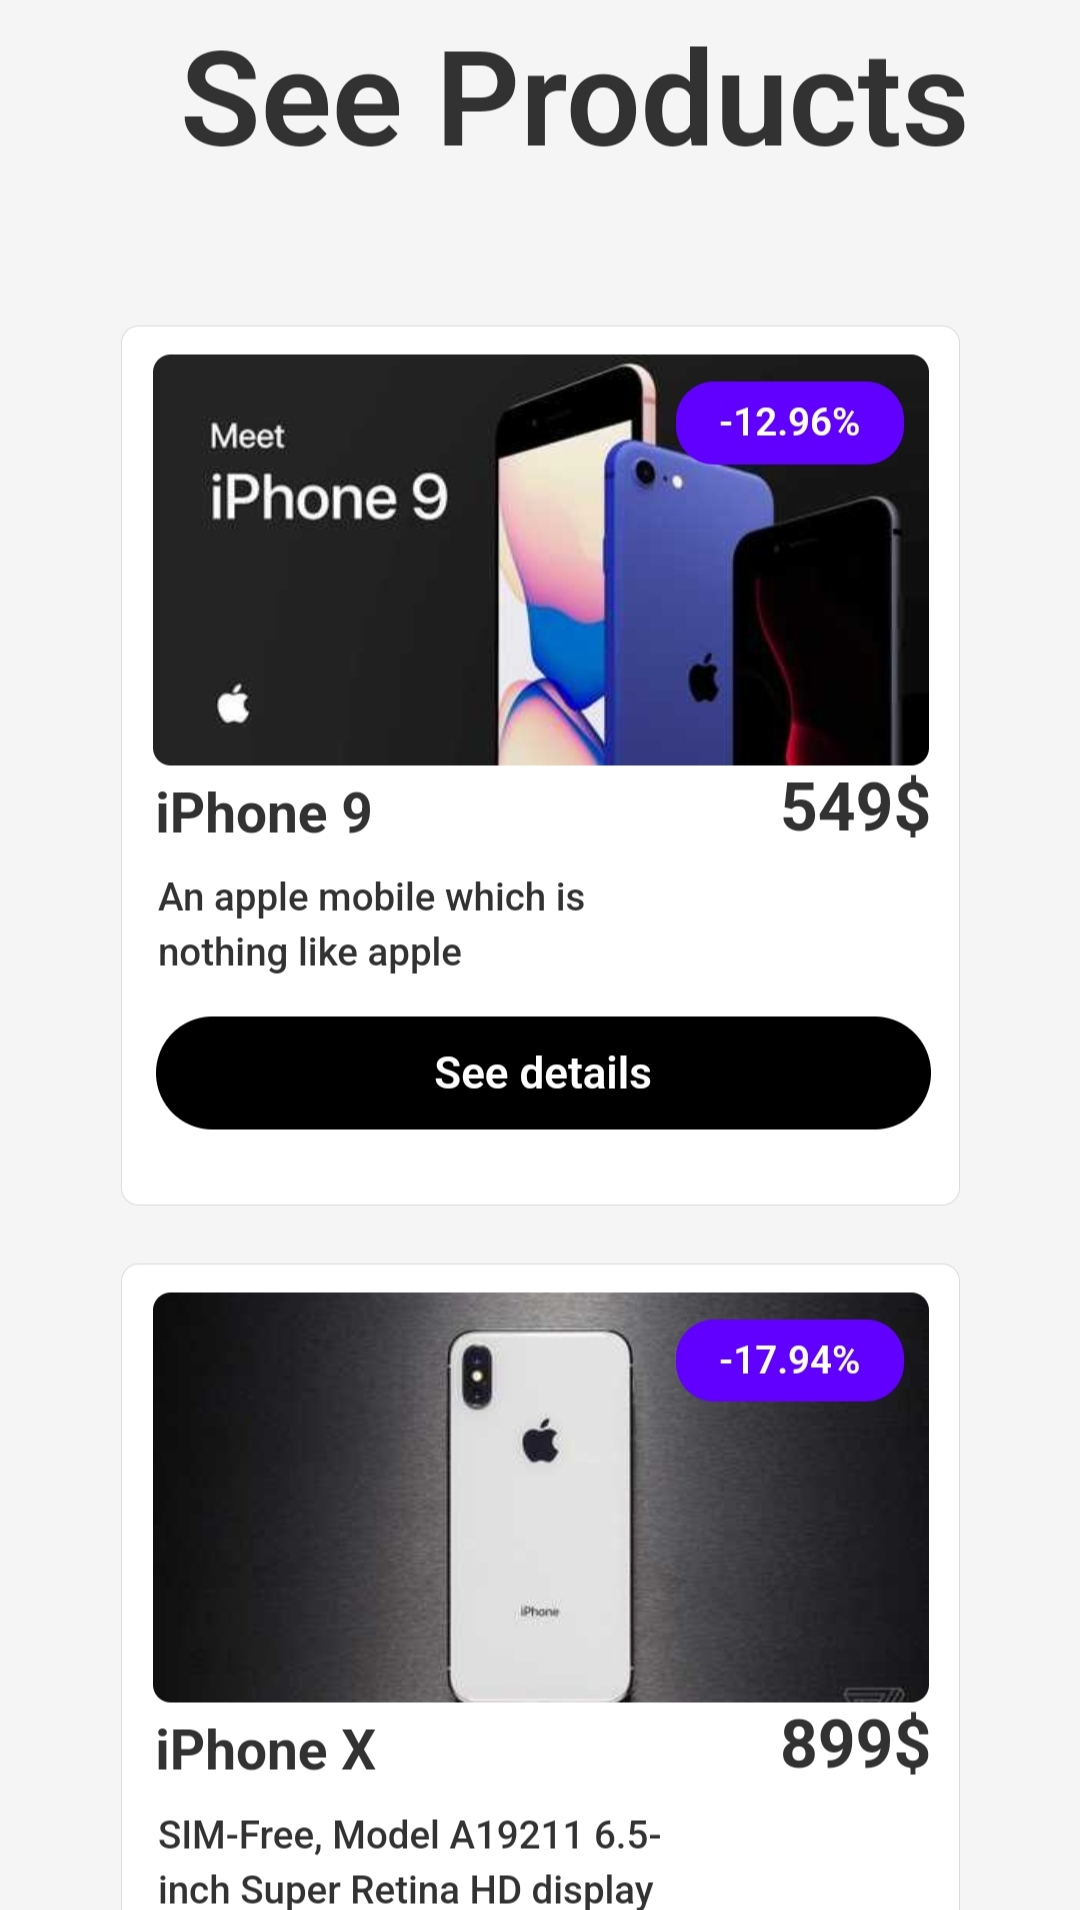
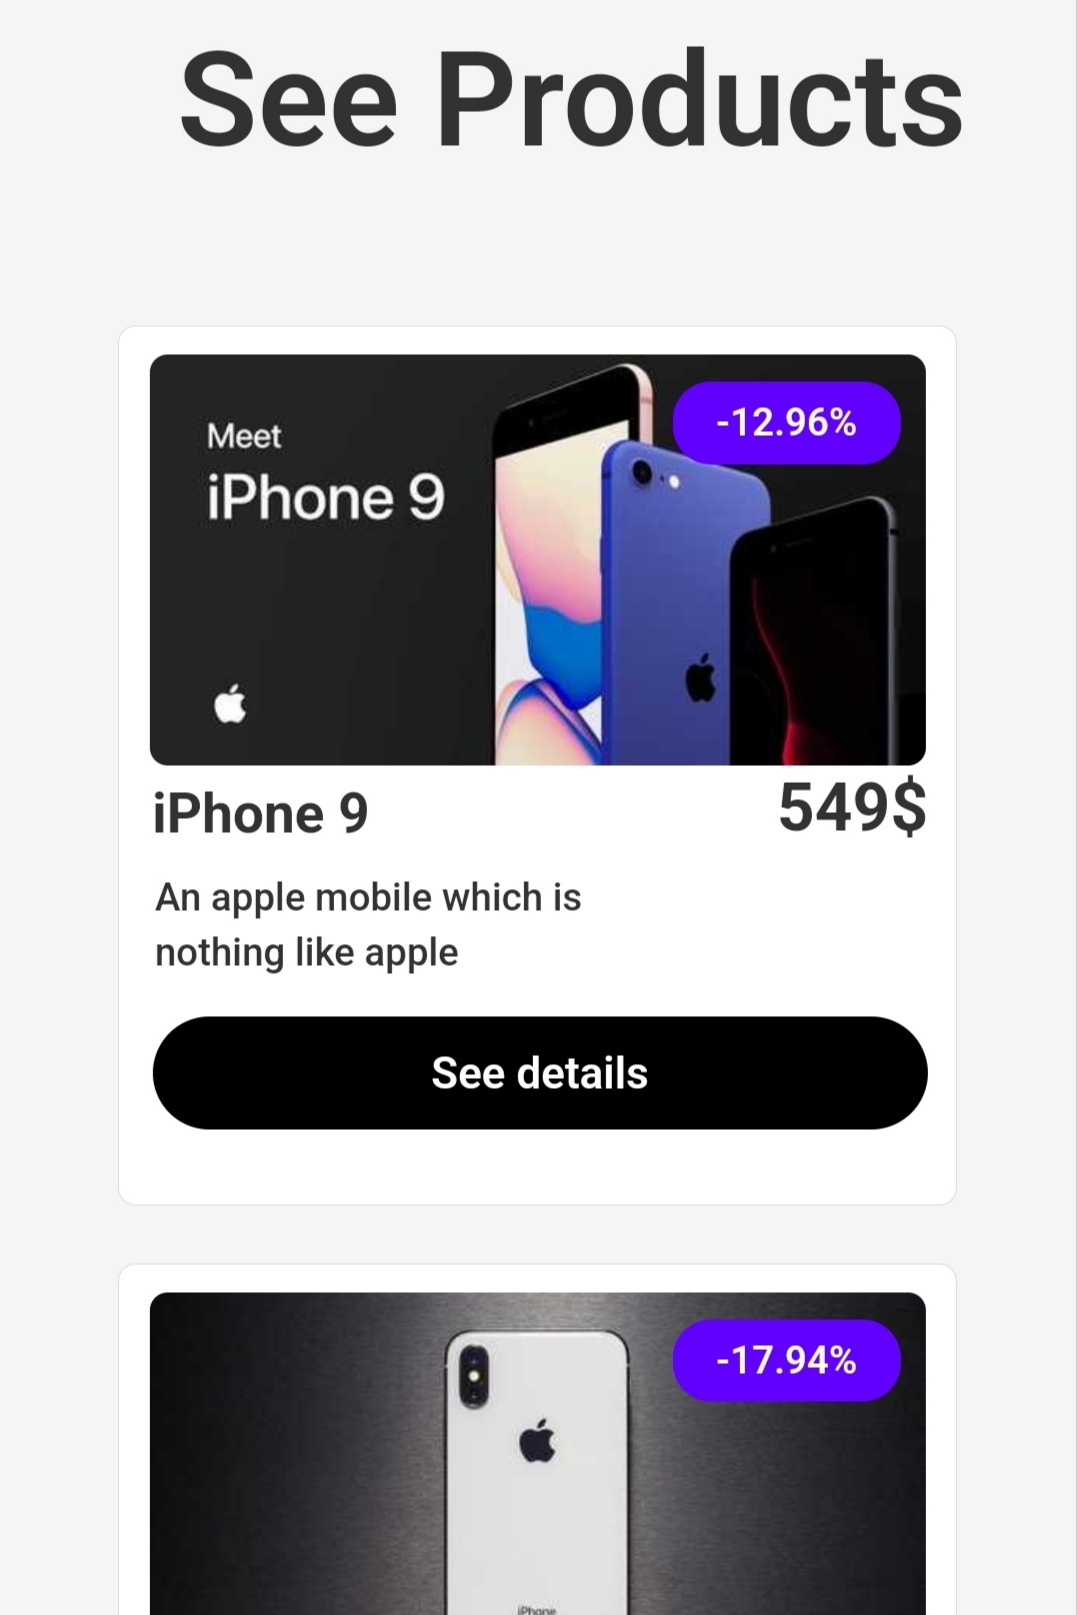
swiper css

diff --git a/index.html b/index.html
@@ -441,7 +441,7 @@ In addition, I consider continuous learning and accepting new challenges importa
 
                     <!-- Portfolio 1-->
                     <div class="portfolio__content grid swiper-slide">
-                        <img src="./assets/images/Mini projects.png" alt="" class="portfolio__img">
+                        <img src="./assets/images/mini.png" alt="" class="portfolio__img">
 
                         <div class="portfolio__data">
                             <h3 class="portfolio__title">Mini Projects</h3>

diff --git a/assets/style/style.css b/assets/style/style.css
@@ -660,6 +660,11 @@ button {
 .portfolio__button:hover .button__icon {
     transform: translateX(.25rem);
 }
+
+.swiper-wrapper {
+    padding: 50px 25px;
+}
+
 .swiper-button-prev::after,
 .swiper-button-next::after {
     content: "";
